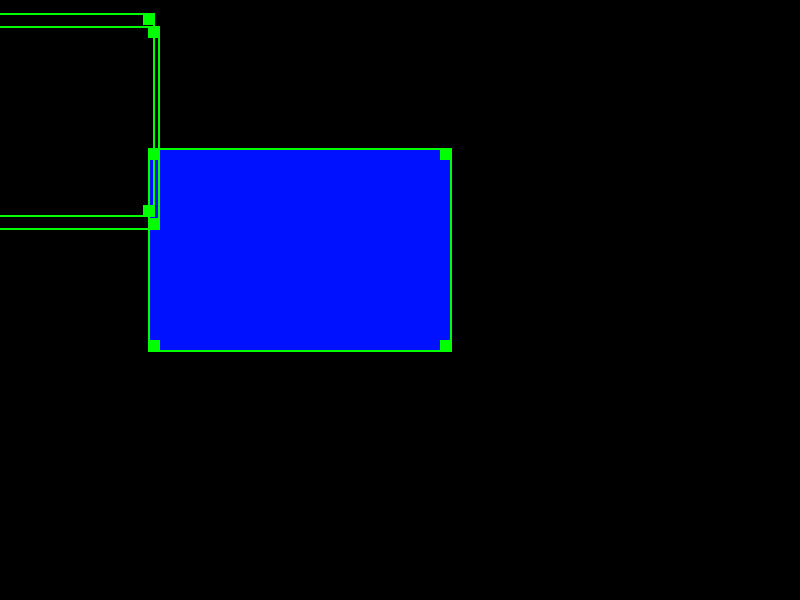
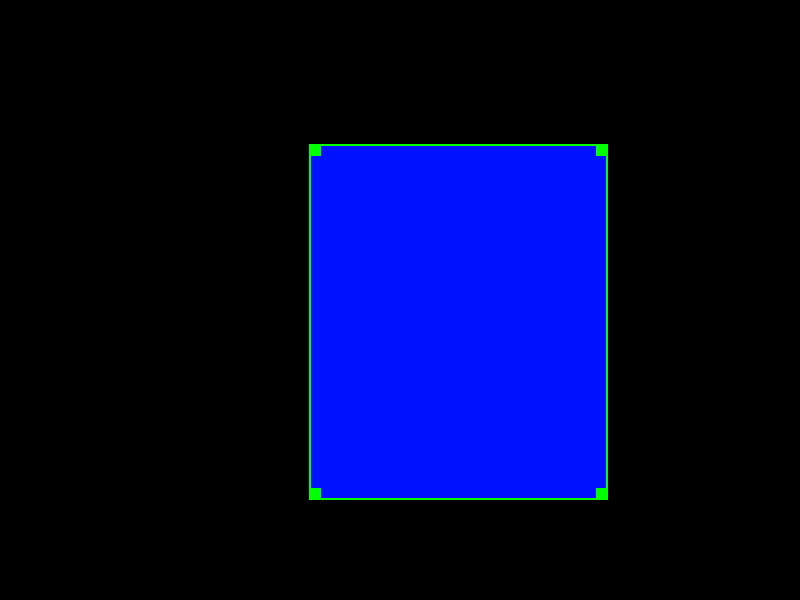
ПОЧТИ РАБОТАЕТ ПРЯМОУГОЛЬНИК!!!!!!!!!!!!!!!!!!!!!!

Changed region(s): [[0.0, 0.0, 0.7812, 0.84]]

diff --git a/lab9/Console_ShapesEditor/Console_ShapesEditor.cpp b/lab9/Console_ShapesEditor/Console_ShapesEditor.cpp
@@ -36,11 +36,13 @@ int main()
 	ShapeSelectionModel shapeSelectionModel;
 	PictureDraftView pictureDraftView(pictureDraftAppModel, shapeSelectionModel);
 	auto pictureDraftViewPresenter = std::make_shared<PictureDraftViewPresenter>(shapeSelectionModel, pictureDraftView, pictureDraftAppModel);
+	//pictureDraftView.SetListener(pictureDraftViewPresenter);
 
-	sf::ContextSettings settings;
-	settings.antialiasingLevel = 8;
-	auto renderWindow = sf::RenderWindow(sf::VideoMode(800, 600), "ShapesEditor", sf::Style::Default, settings);
+	//sf::ContextSettings settings;
+	//settings.antialiasingLevel = 8;
+	auto renderWindow = sf::RenderWindow(sf::VideoMode(800, 600), "ShapesEditor");
 	auto sfmlCanvas = SFMLCanvas(renderWindow);
+	//renderWindow.setFramerateLimit(30);
 
 	// run the program as long as the window is open
 	bool isDragging = false;
@@ -75,10 +77,10 @@ int main()
 			{
 				auto point = sf::Mouse::getPosition(renderWindow);
 				Point offset = { point.x - clickPoint.x, point.y - clickPoint.y };
-				std::cout << "==========================" << clock.getElapsedTime().asMilliseconds() << "\n";
-				std::cout << "offset    " << offset << std::endl;
-				std::cout << "clickPoint" << clickPoint << std::endl;
-				std::cout << "point     " << point.x << " " << point.y << std::endl;
+				//std::cout << "==========================" << clock.getElapsedTime().asMilliseconds() << "\n";
+				//std::cout << "offset    " << offset << std::endl;
+				//std::cout << "clickPoint" << clickPoint << std::endl;
+				//std::cout << "point     " << point.x << " " << point.y << std::endl;
 				isDragging = true;
 			}
 			else
@@ -89,18 +91,21 @@ int main()
 			{
 				isDragging = false;
 			}
-		}
-		if (isDragging)
-		{
-			auto point = sf::Mouse::getPosition(renderWindow);
-			Point offset = { point.x - clickPoint.x, point.y - clickPoint.y };
-			pictureDraftViewPresenter->OnDrag(offset, clickPoint);
+
 		}
 
 		// clear the window with black color
 		renderWindow.clear(sf::Color::Black);
 
 		// window.draw(...);
+		if (isDragging)
+		{
+			auto point = sf::Mouse::getPosition(renderWindow);
+			Point offset = { point.x - clickPoint.x, point.y - clickPoint.y };
+			pictureDraftViewPresenter->OnDrag(offset, clickPoint);
+			clickPoint.x += offset.x;
+			clickPoint.y += offset.y;
+		}
 		pictureDraftView.Show(sfmlCanvas);
 
 		// end the current frame

diff --git a/lab9/ShapesEditor/View/SelectionFrameView/SelectionFrameView.cpp b/lab9/ShapesEditor/View/SelectionFrameView/SelectionFrameView.cpp
@@ -10,10 +10,12 @@ SelectionFrameView::SelectionFrameView(ShapeAppModel& shape)
 	, m_frame(shape.GetFrame())
 	, m_id(shape.GetId())
 {
-	m_shapeAppModel.DoOnFrameChanged([&, this](const RectD& frame) {
-		m_frame = frame;
+	// TODO: выпилить к чертям этот m_frame;
+	std::cout << "=====================================================Create new selection\n";
+	m_shapeAppModel.DoOnFrameChanged([=, *this](const RectD& frame) mutable {
+		m_frame = m_shapeAppModel.GetFrame();
+		std::cout << "m_frame " << m_frame.left << " " << m_frame.top << " " << m_frame.width << " " << m_frame.height << std::endl;
 	});
-	// TODO: как перерисовать с новыми данными?
 }
 
 SelectionFrameView::Id SelectionFrameView::GetId() const
@@ -21,14 +23,22 @@ SelectionFrameView::Id SelectionFrameView::GetId() const
 	return m_id;
 }
 
+void SelectionFrameView::SetFrame(const RectD& frame)
+{
+	m_frame = frame;
+}
+
 void SelectionFrameView::Show(ICanvas& canvas)
 {
 	auto thickness = DEFAULT_SELECTION_THICKNESS;
+	RectD frame = m_shapeAppModel.GetFrame();
+	Point leftTop = { frame.left, frame.top };
+	Point rightBottom = { frame.left + frame.width, frame.top + frame.height };
+	Point rightTop = { rightBottom.x, frame.top };
+	Point leftBottom = { frame.left, rightBottom.y };
 
-	Point leftTop = { m_frame.left, m_frame.top };
-	Point rightBottom = { m_frame.left + m_frame.width, m_frame.top + m_frame.height };
-	Point rightTop = { rightBottom.x, m_frame.top};
-	Point leftBottom = { m_frame.left, rightBottom.y };
+	std::cout << "leftTop " << leftTop << std::endl;
+	std::cout << "SelectionView " << std::addressof(*this) << std::endl;
 
 	canvas.SetFillColor(DEFAULT_SELECTION_COLOR);
 
@@ -39,7 +49,6 @@ void SelectionFrameView::Show(ICanvas& canvas)
 	canvas.DrawLine({ rightBottom.x + thickness, rightBottom.y + thickness }, { leftBottom.x - thickness, leftBottom.y + thickness });
 	canvas.DrawLine(leftBottom, leftTop);
 
-	// первый квадратик, за который можно перетаскивать
 	ShowCorner(canvas, leftTop);
 	ShowCorner(canvas, { rightTop.x - DEFAULT_SELECTION_CORNER_SIZE, rightTop.y });
 	ShowCorner(canvas, { rightBottom.x - DEFAULT_SELECTION_CORNER_SIZE, rightBottom.y - DEFAULT_SELECTION_CORNER_SIZE });

diff --git a/lab9/ShapesEditor/View/PictureDraftView/PictureDraftView.cpp b/lab9/ShapesEditor/View/PictureDraftView/PictureDraftView.cpp
@@ -5,10 +5,13 @@ PictureDraftView::PictureDraftView(PictureDraftAppModel& pictureDraft, ShapeSele
 	: m_pictureDraftAppModel(pictureDraft)
 	, m_shapeSelectionModel(shapeSelection)
 {
-	m_shapeSelectionModel.DoOnSelectionChanged([&, this](const std::vector<std::shared_ptr<ShapeAppModel>>& selectedShapes) {
+	m_shapeSelectionModel.DoOnSelectionChanged([&, this](const std::vector<std::shared_ptr<ShapeAppModel>>& selectedShapes) mutable {
+		m_selectionFramesView.clear();
 		for (auto&& shape : selectedShapes)
 		{
+			std::cout << "@@@@@@@@@@@@@@@@DoOnSelectionChanged\n";
 			m_selectionFramesView.push_back(SelectionFrameView(*shape));
+			std::cout << std::addressof(m_selectionFramesView.back());
 		}
 	});
 }
@@ -33,6 +36,8 @@ void PictureDraftView::Show(ICanvas& canvas)
 	for (auto&& selectionFrame : m_selectionFramesView)
 	{
 		selectionFrame.Show(canvas);
+		std::cout << "PictureDraftView " << std::addressof(selectionFrame) << std::endl;
+		
 	}
 }
 
@@ -43,5 +48,6 @@ void PictureDraftView::SetListener(const std::shared_ptr<IPictureDraftViewListen
 
 void PictureDraftView::AppendShapeView(std::unique_ptr<ShapeView>&& shapeView)
 {
+	std::cout << "AppendShapeView " << std::addressof(shapeView);
 	m_shapesView.push_back(std::move(shapeView));
 }

diff --git a/lab9/ShapesEditor/View/ShapeView/ShapeViewPresenter/ShapeViewPresenter.cpp b/lab9/ShapesEditor/View/ShapeView/ShapeViewPresenter/ShapeViewPresenter.cpp
@@ -8,6 +8,9 @@ ShapeViewPresenter::ShapeViewPresenter(const std::shared_ptr<ShapeAppModel>& mod
 	, m_shapeSelectionModel(selectionModel)
 	, m_shapeView(shapeView)
 {
+	m_shapeAppModel->DoOnFrameChanged([&, this](const RectD& frame) {
+		m_shapeView.SetFrame(frame);
+	});
 }
 
 const ShapeView& ShapeViewPresenter::GetShapeView() const
@@ -55,9 +58,9 @@ void ShapeViewPresenter::OnMouseDown(const Point& point)
 	if (IsPointBelongShape &&
 		!IsShapeSelected)
 	{
-		selectedShapes.push_back(m_shapeAppModel);
+		m_shapeSelectionModel.SetSelectedShapes({ m_shapeAppModel });
 	}
-	m_shapeSelectionModel.SetSelectedShapes(selectedShapes);
+	
 }
 
 void ShapeViewPresenter::OnDrag(const Point& offset, const Point& point)

diff --git a/lab9/ShapesEditor/App/UseCases/ResizeShapeUseCase/ResizeShapeUseCase.cpp b/lab9/ShapesEditor/App/UseCases/ResizeShapeUseCase/ResizeShapeUseCase.cpp
@@ -3,8 +3,8 @@
 #include "../Commands/ChangeFrameCommand/ChangeFrameCommand.h"
 #include "ResizeShapeUseCase.h"
 
-const double MIN_WIDTH = 10;
-const double MIN_HEIGHT = 10;
+const double MIN_WIDTH = 30;
+const double MIN_HEIGHT = 30;
 
 ResizeShapeUseCase::ResizeShapeUseCase(const std::vector<std::shared_ptr<ShapeAppModel>>& shapes, std::shared_ptr<IHistory> history)
 	: m_shapesToResize(shapes)
@@ -77,7 +77,7 @@ void ResizeShapeUseCase::ResizeShape(std::shared_ptr<ShapeAppModel> shape, const
 		newHeight = frame.height - offset.y;
 		frame.height = std::max(MIN_HEIGHT, newHeight);
 
-		frame.height += offset.y;
+		frame.top += offset.y;
 		shape->SetFrame(frame);
 		return;
 	default:

diff --git a/lab9/ShapesEditor/App/ShapeAppModel/ShapeAppModel.cpp b/lab9/ShapesEditor/App/ShapeAppModel/ShapeAppModel.cpp
@@ -34,7 +34,7 @@ RectD ShapeAppModel::GetFrame() const
 void ShapeAppModel::SetFrame(const RectD& frame)
 {
 	m_frame = frame;
-	m_frameChanged(frame);
+	m_frameChanged(m_frame);
 }
 
 std::shared_ptr<ILineStyle> ShapeAppModel::GetLineStyle() const
@@ -49,5 +49,6 @@ std::shared_ptr<IFillStyle> ShapeAppModel::GetFillStyle() const
 
 connection ShapeAppModel::DoOnFrameChanged(const std::function<void(const RectD&)>& handler)
 {
+	std::cout << "connect\n";
 	return m_frameChanged.connect(handler);
 }

diff --git a/lab9/ShapesEditor/View/PictureDraftView/PictureDraftViewPresenter/PictureDraftViewPresenter.cpp b/lab9/ShapesEditor/View/PictureDraftView/PictureDraftViewPresenter/PictureDraftViewPresenter.cpp
@@ -17,6 +17,11 @@ PictureDraftViewPresenter::PictureDraftViewPresenter(ShapeSelectionModel& select
 		m_shapeViewPresenters.push_back(shapeViewPresenter);
 		m_pictureDraftView.AppendShapeView(std::move(shapeView));
 	}
+
+	//m_shapeSelectionModel.DoOnSelectionChanged([&](const std::vector<std::shared_ptr<ShapeAppModel>>& selectedShapes) {
+	//	
+	//});
+
 }
 
 void PictureDraftViewPresenter::OnMouseDown(const Point& point)

diff --git a/lab9/ShapesEditor/App/UseCases/MoveShapeUseCase/MoveShapeUseCase.cpp b/lab9/ShapesEditor/App/UseCases/MoveShapeUseCase/MoveShapeUseCase.cpp
@@ -16,7 +16,11 @@ void MoveShapeUseCase::Move(const Point& offset)
 		auto frame = shape->GetFrame();
 		frame.left += offset.x;
 		frame.top += offset.y;
-		shape->SetFrame(frame);
+		std::cout << "================================Model frame  " << frame.left << " " << frame.top << std::endl;
+		if (offset.x != 0 || offset.y != 0)
+		{
+			(*shape).SetFrame(frame);
+		}
 	}
 }
 

diff --git a/lab9/ShapesEditor/View/SelectionFrameView/SelectionFrameView.h b/lab9/ShapesEditor/View/SelectionFrameView/SelectionFrameView.h
@@ -8,7 +8,7 @@ public:
 	using Id = std::string;
 	SelectionFrameView(ShapeAppModel&);
 	Id GetId() const;
-
+	void SetFrame(const RectD&);
 	void Show(ICanvas&) override;
 
 private:
